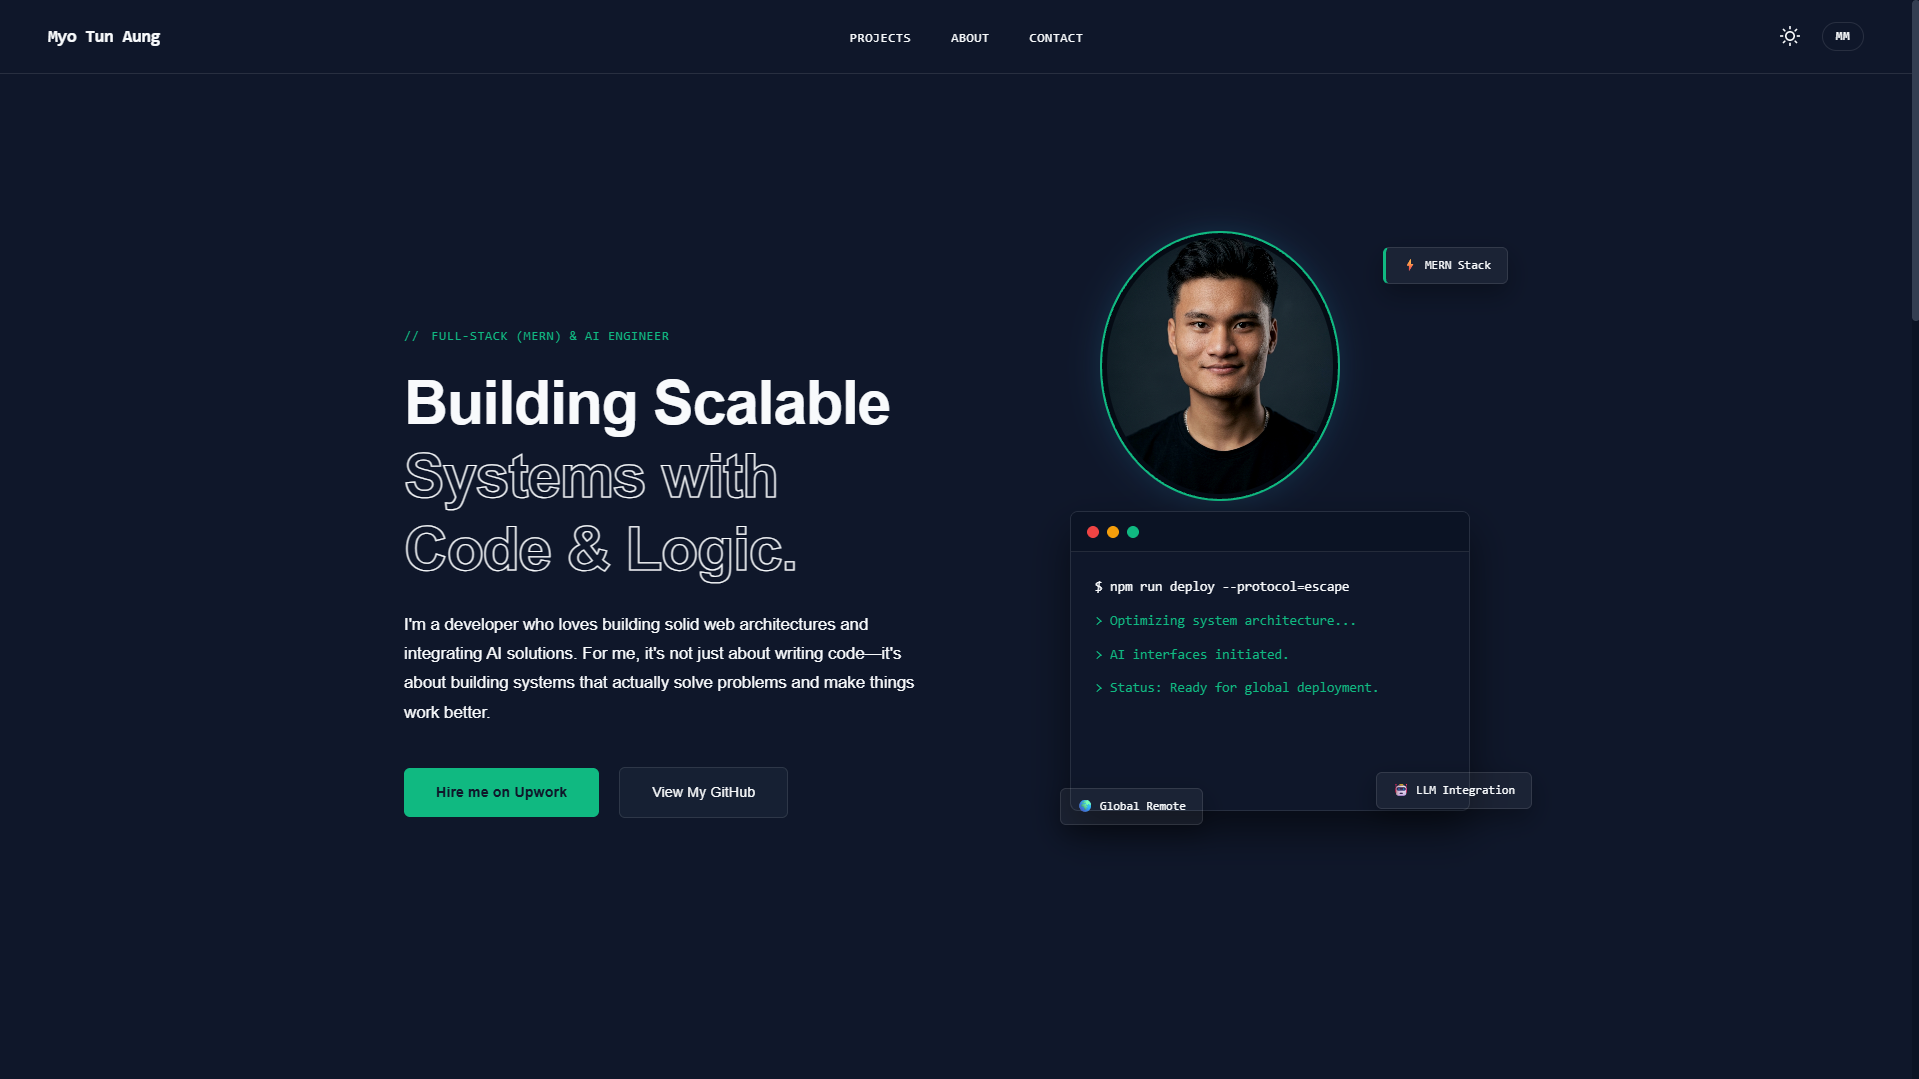
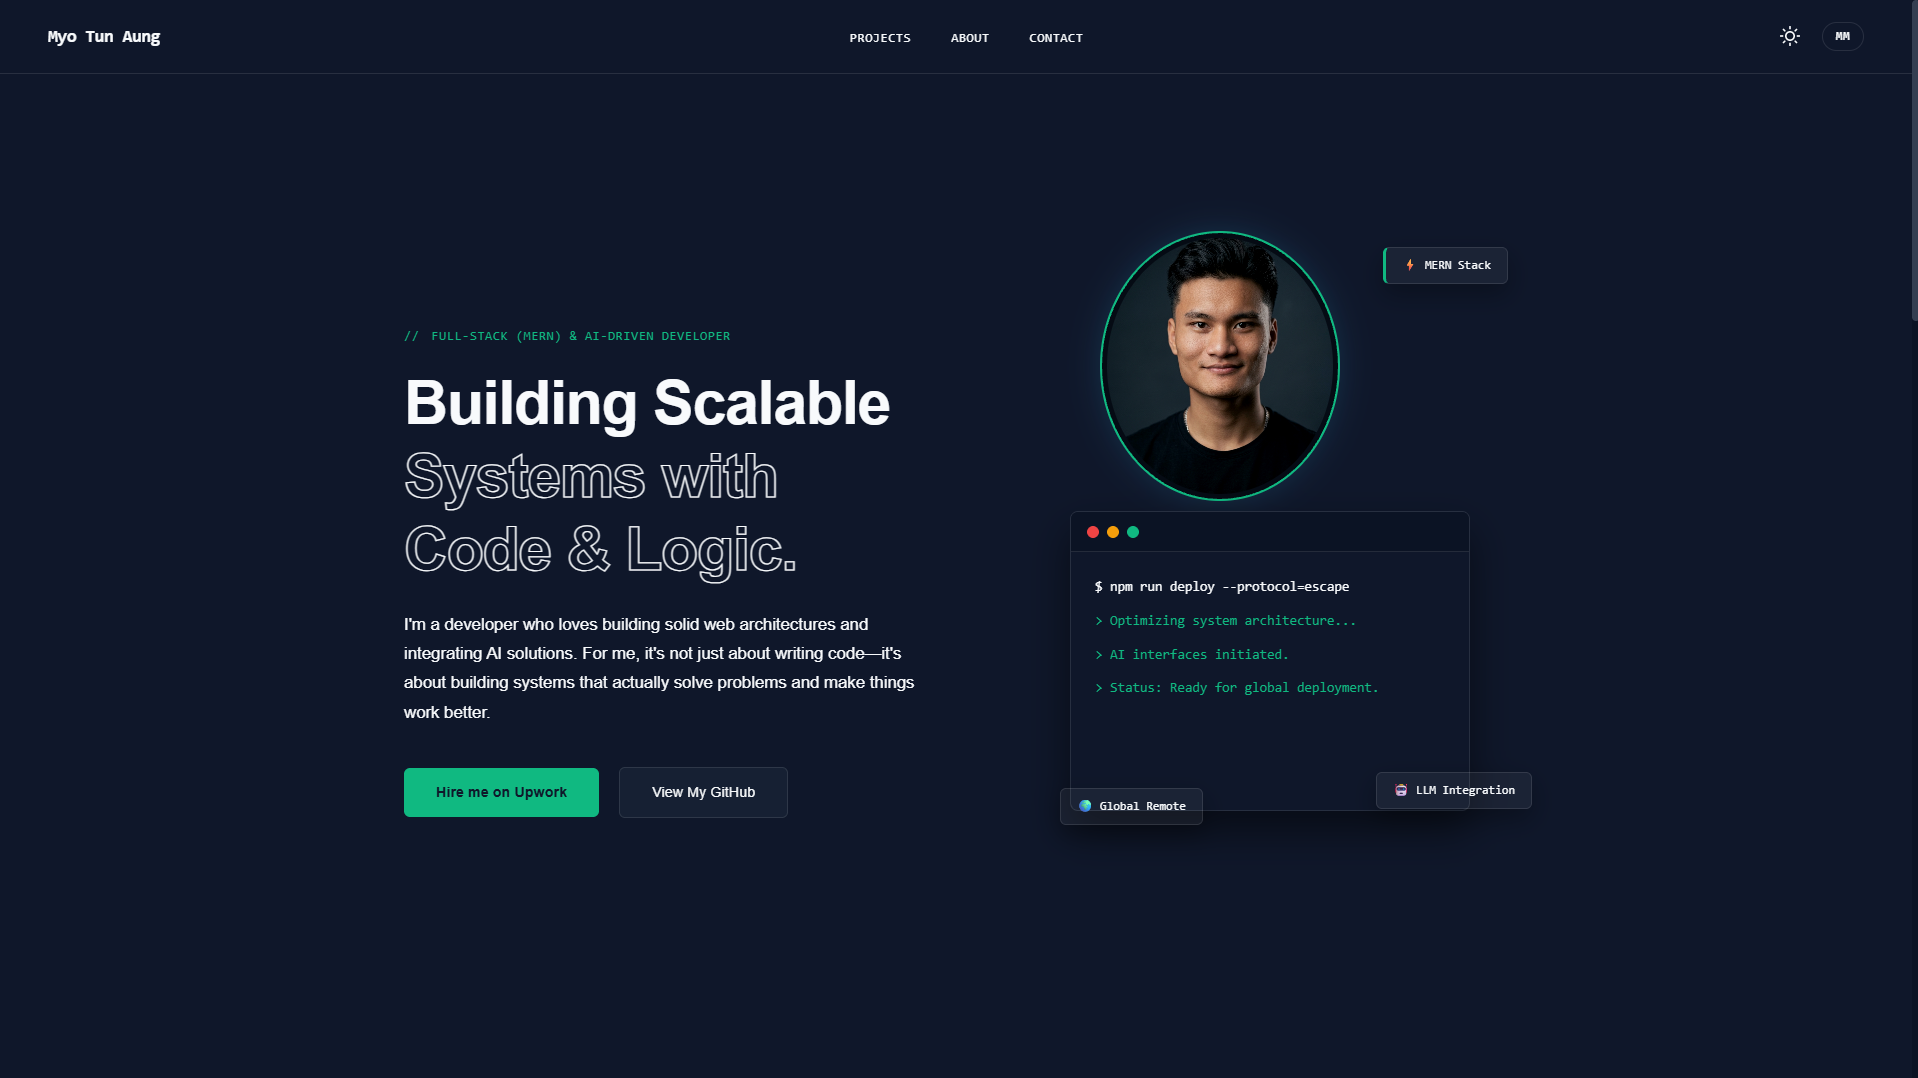
content: update portfolio title and about section topics

diff --git a/src/components/About/About.jsx b/src/components/About/About.jsx
@@ -101,6 +101,13 @@ export default function About() {
                             <p>{t('about.value2Desc')}</p>
                         </div>
                     </div>
+                    <div className="value-item">
+                        <div className="value-dot">03</div>
+                        <div className="value-text">
+                            <strong>{t('about.value3Title')}</strong>
+                            <p>{t('about.value3Desc')}</p>
+                        </div>
+                    </div>
                 </div>
             </div>
         </section>
